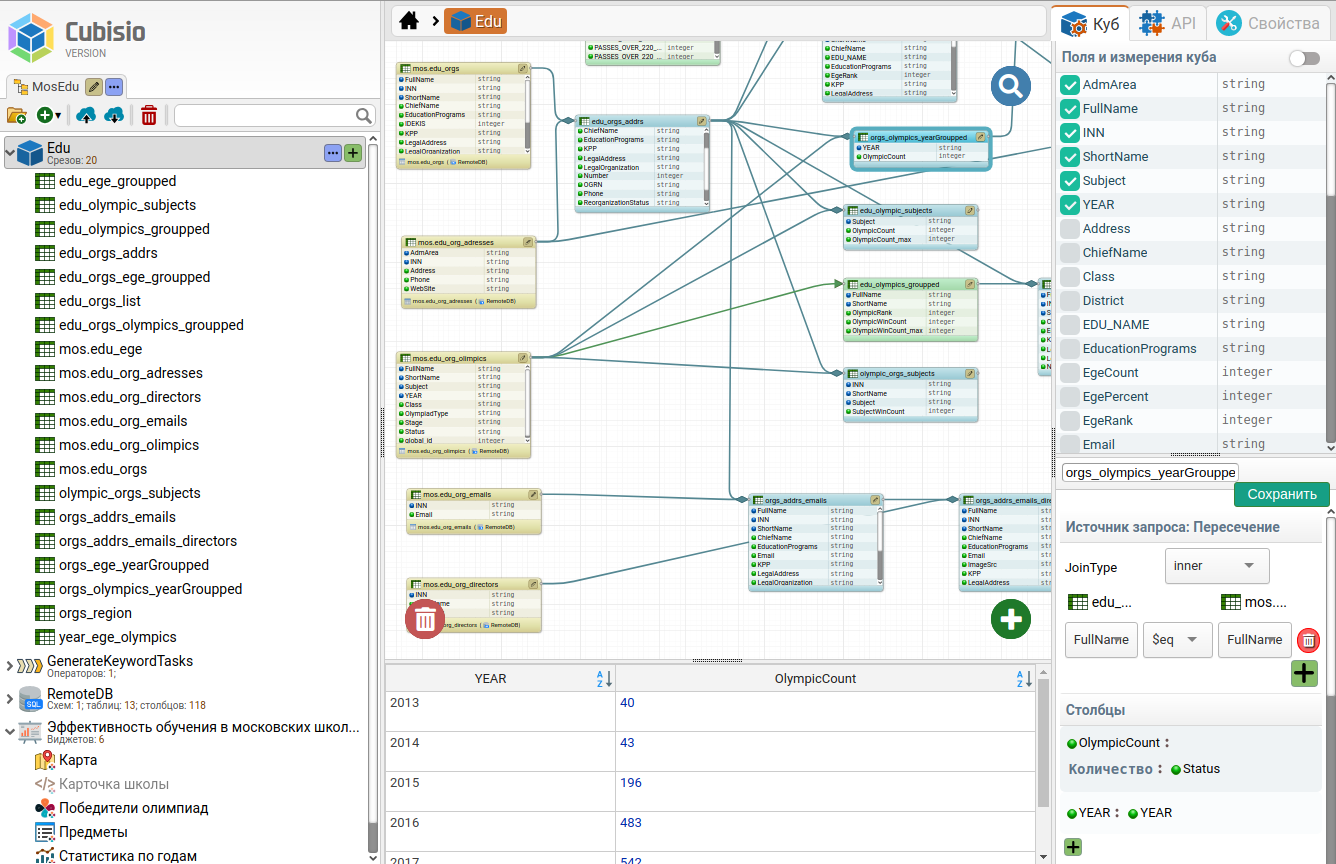
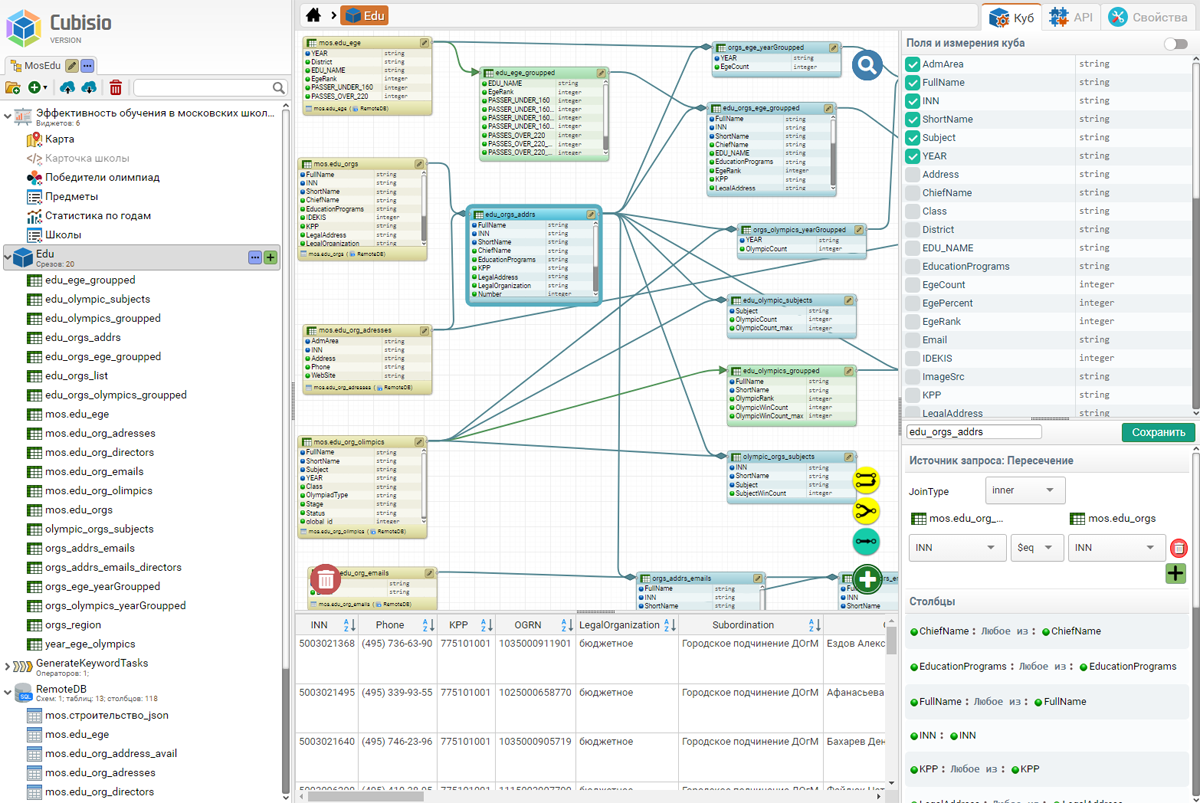
изменены скрины в статье

diff --git a/plugins/datacube/docs/Article - not OLAP/Article - not OLAP.md b/plugins/datacube/docs/Article - not OLAP/Article - not OLAP.md
@@ -11,7 +11,7 @@ _Когда делаешь наоборот и получаешь то же ..._
 
 _Простая задача должна решаться просто, а сложная - тоже просто, но дольше ..._
 
-Начиная создавать систему малыми силами, мы пошли от простого к сложному. Создавая конструктор, мы были внутренне убеждены, что мы хорошо понимаем цель системы, борясь одновременно с желанием не делать лишнего и противоположным желанием автоматизировать всё и вся, для всего создавая фреймворк. Тем более, что один замечательный фреймворк был уже готов и даже обкатан в продакшене (**jsBeans** - наша клиент-серверная платформа, которая очень хорошо вписывается в лежащие перед нами задачи). Итак, мы приступили к разработке очередной системы обработки данных, которая выросла и сейчас представляет из себя одновременно и самодостаточный продукт - конструктор, и платформу разработки целого класса систем обработки данных - **Сubisio**. 
+Начиная создавать систему малыми силами, мы пошли от простого к сложному. Создавая конструктор, мы были внутренне убеждены, что мы хорошо понимаем цель системы, борясь одновременно с желанием не делать лишнего и противоположным желанием автоматизировать всё и вся, для всего создавая фреймворк. Тем более, что один замечательный фреймворк был уже готов и даже обкатан в продакшене (**jsBeans** - наша клиент-серверная платформа, которая очень хорошо вписывается в лежащие перед нами задачи). Итак, мы приступили к разработке очередной системы обработки данных, которая выросла и сейчас представляет собой одновременно и самодостаточный продукт - конструктор, и платформу для разработки целого класса систем обработки данных - **Сubisio**. 
 
 Ниже будет описана одна сторона оригинального внутреннего устройства этой системы - вычислительная обработка для интерактивной визуализации данных. 
 
